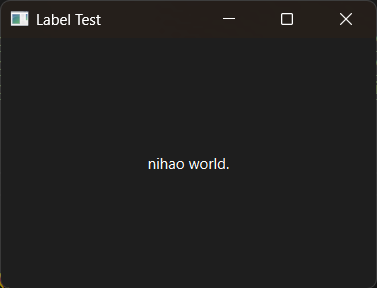
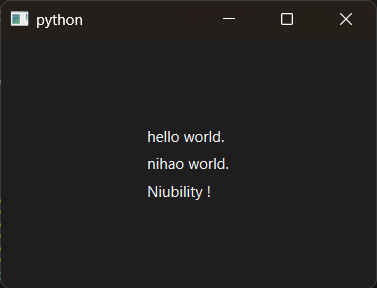
[PyQt] Add QLabel example.

diff --git a/Class-3/PyQt6/Class-1/04-Label/main.py b/Class-3/PyQt6/Class-1/04-Label/main.py
@@ -1,0 +1,60 @@
+###
+# PyQt6 QLabel example.
+#
+# License - MIT.
+###
+
+import sys
+from PyQt6.QtWidgets import QApplication, QWidget, QVBoxLayout, QLabel
+from PyQt6.QtCore import Qt, QTimer
+
+
+def updateLabel(label: QLabel):
+# {
+    label.setText('Niubility !')
+# }
+
+
+# QWidget API : <https://doc.qt.io/qtforpython-6/PySide6/QtWidgets/QWidget.html>
+# QLabel  API : <https://doc.qt.io/qtforpython-6/PySide6/QtWidgets/QLabel.html>
+# QTimer  API : <https://doc.qt.io/qtforpython-6/PySide6/QtCore/QTimer.html>
+def main():
+# {
+    app = QApplication([])
+
+    # Controls.
+    # English: hello.
+    # Chinese: nihao.
+    label1 = QLabel()
+    label1.setText('hello world.')
+
+    label2 = QLabel()
+    label2.setText('nihao world.')
+
+    label3 = QLabel()
+    label3.setText('Great !')
+
+    # Layout.
+    layout = QVBoxLayout()
+
+    layout.addWidget(label1)
+    layout.addWidget(label2)
+    layout.addWidget(label3)
+    layout.setAlignment(Qt.AlignmentFlag.AlignCenter)
+
+    # Widget.
+    widget = QWidget()
+
+    widget.setLayout(layout)
+    widget.resize(300, 200)
+    widget.show()
+
+    # Change label context.
+    QTimer.singleShot(3000, lambda: updateLabel(label3))
+
+    sys.exit(app.exec())
+# }
+
+
+if '__main__' == __name__:
+    main()

diff --git a/Class-3/PyQt6/Class-1/04-Label/README.md b/Class-3/PyQt6/Class-1/04-Label/README.md
@@ -1,0 +1,37 @@
+
+# Introduction
+
+PyQt6 QLabel example.
+
+Launch, it will display "hello world.", after 3 seconds, dispaly "nihao world.".
+
+
+# Screenshot
+
+![Label](../res/04-Label.png)
+
+
+# API
+
+English:
+
+- [QApplication](../../Class-0/QtWidget/QApplication.md)
+- [QWidget](../../Class-0/QtWidget/QWidget.md)
+- [QLabel](../../Class-0/QtWidget/QLabel.md)
+- [QTimer](../../Class-0/QtWidget/QTimer.md)
+
+Chinese:
+
+- [QApplication](../../Class-0/QtWidget/QApplication.CN.md)
+- [QWidget](../../Class-0/QtWidget/QWidget.CN.md)
+- [QLabel](../../Class-0/QtWidget/QLabel.CN.md)
+- [QTimer](../../Class-0/QtWidget/QTimer.CN.md)
+
+
+# Usage
+
+```bash
+$ python --version
+Python 3.12.3
+$ python main.py
+```
